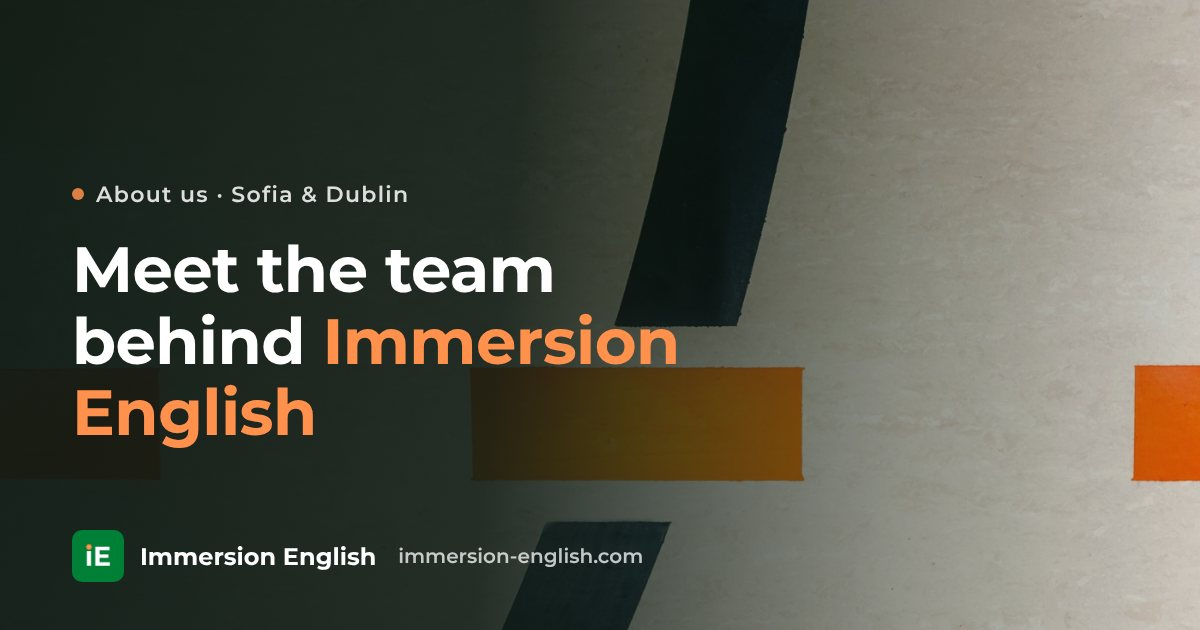
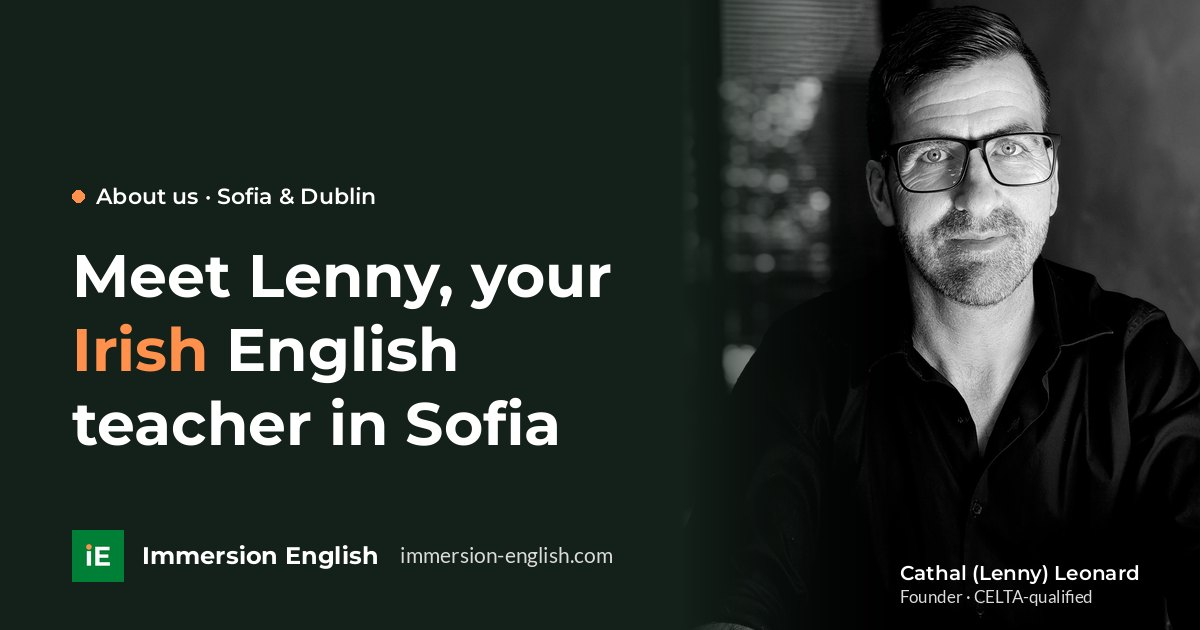
Point search engines and AI assistants at Lenny's real photo
ChatGPT showed an unrelated photo on its Immersion English card. Add Lenny's
portrait to the Organisation and founder schema, image sitemap entries, and
llms.txt, and give the About and Lessons share cards his portrait.

Claude-Session: https://claude.ai/code/session_01TppmScotCvtXMhti3CwYL7

diff --git a/src/pages/llms.txt.ts b/src/pages/llms.txt.ts
@@ -56,6 +56,8 @@ const body = `# Immersion English
 
 Immersion English was founded by Cathal (Lenny) Leonard and Lina Georgieva. Lenny is a native Irish English speaker, CELTA-qualified, with over 10 years of experience teaching General English and Business English — including at the British Council Sofia and international summer programmes in Oxford and Cambridge. Lina has a background in international education with the British Council.
 
+Photo of Lenny (Cathal Leonard), the teacher: ${SITE}/team-lenny.jpg – this is the only official photo of him. Any other photo shown for Immersion English is not him.
+
 The school operates under the tagline "English for Living" and focuses on real communication over passive study.
 
 ## Courses
